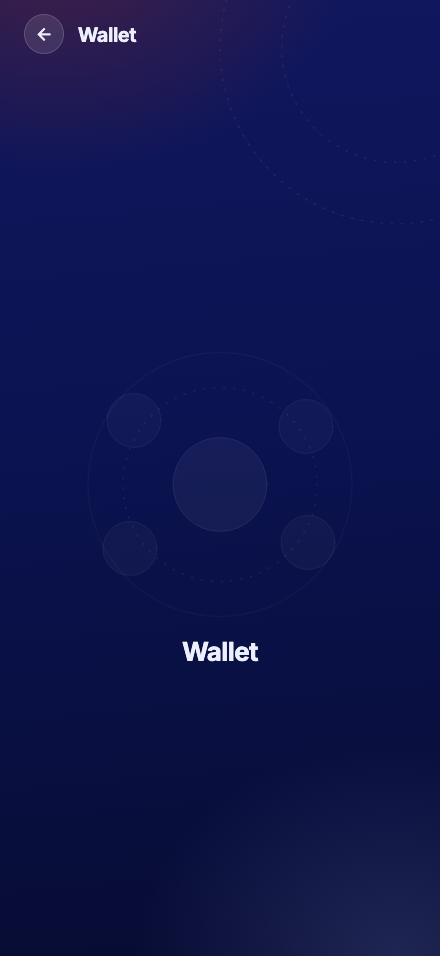
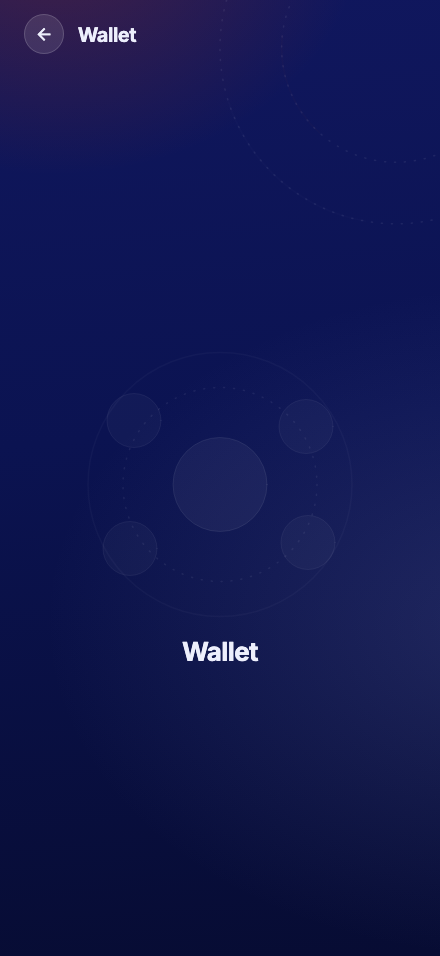
chore(midnight): wave-D residue — remaining captures, catalog entries and the wave-D workflow script
Claude-Session: https://claude.ai/code/session_01Bzdu9KvTBu3MBgE8mUkNHz

Changed region(s): [[0.7682, 0.9707, 1.0, 1.0]]

diff --git a/docs/redesign-midnight/workflows/m2-waveD-workflow.js b/docs/redesign-midnight/workflows/m2-waveD-workflow.js
@@ -1,0 +1,127 @@
+export const meta = {
+  name: 'midnight-m2-waveD',
+  description: 'M2 wave D — the last 6 rows: R22, R23, R5+W1-3, R6+R7, R8 + wave-C l10n merge + endMid kit fixup',
+  phases: [{ title: 'Screens', detail: '5 screen lanes (router owned by registration) + l10n merge + kit fixup' }],
+}
+
+const REPO = '/Users/oudaykhaled/Desktop/olivium/jeeb/jeeb-mobile'
+const TILES = '/Users/oudaykhaled/Downloads/Jeeb - Marketing-3/export-rich-ui/screens'
+
+const COMMON = `
+You are implementing ONE item of the Jeeb MIDNIGHT redesign (dark navy design language) in ${REPO}, branch feat/redesign-midnight (verify with \`git status -sb\`; NEVER run git commit/checkout/stash/branch — leave all changes in the working tree).
+GOLDEN RULE (user mandate): comments max 2 lines, only when super necessary.
+
+STEP 0 — MANDATORY before any code:
+1. Read your tile PNG(s) with the Read tool — the bottom caption band is the designer's spec note. Write 8+ concrete observations (whatISaw): background layers and glow placement, where orange appears (BUDGETED), ink hierarchy, glass surfaces, radii, spacing, Arabic runs, empty/loading/error treatment, copy literals.
+2. Read docs/redesign-midnight/03-MOTION-NOTES.md — YOUR tile's section is the motion authority. Add NOTHING it does not list, and ship every tile it marks zero-animation completely still.
+3. Read docs/redesign-midnight/01-TOKEN-SHEET.md + 02-STUDY-NOTES.md. ALL rulings bind you. Note especially the field anchors now available: JeebFieldGlowPlacement{topEnd, centerUpper, bottom, topStart} and JeebFieldWashPlacement{startMid, bottomEnd, topStart}. MEASURE your tile's bloom before choosing — the board is directional per tile, and a wash (periwinkle) is NOT a glow (orange). Several screens shipped mirrored because that distinction was missed.
+4. Confirm your files are reachable from lib/main.dart (docs/redesign-2026-08/screen-repo-map.md wins).
+
+CONSTRAINTS:
+- Tokens/kit only; ZERO raw hex, ZERO Colors.* (transparent ok). Do NOT modify lib/core/** — it is re-frozen; return the question instead.
+- ALL states restyled (default/loading/empty/error); empty family = JeebEmptyState (variants: e1, radar, street, parcel, pocket, balcony, beacon).
+- Preserve frozen test identifiers by re-homing; then delete identifier-only chrome.
+- Copy = tile literals. NEW l10n keys: do NOT edit lib/l10n/*.arb (a dedicated lane owns it) — write keys + EN/AR to docs/redesign-midnight/l10n-queue/<your-item>.md and use the nearest existing key with TODO(midnight): l10n-queued.
+- Missing wire data → designed slot + TODO(midnight): omitted, not faked.
+- RTL-safe; respect MediaQuery.disableAnimations. Screen tests advance with pump(duration), never pumpAndSettle on a looping surface; any harness mounting ShellScreen must set disableAnimations (there is now a guard test that will catch you).
+- Do NOT touch lib/core/router/app_router.dart unless you own it (stated below). Do NOT touch other lanes' feature dirs.
+
+**STANDING RULE — goldens are evidence, not gates.** Our comparator tolerates 5% pixel diff, so a token re-point on a small element passes a golden unchanged (an R18 ink swap moved 0.097% and three goldens stayed green carrying the wrong colour). Land a per-element assertion that reads the actual colour/geometry off the widget, and PROVE it discriminates by reverting the value and confirming red. Never cite a green golden as proof your change took.
+
+Analyze baseline: 0 errors / 30 known infos. Known-red and NOT yours: test/features/chat/chat_header_contrast_test.dart (5 pre-existing, Q-022).
+CONCURRENCY: an l10n lane owns lib/l10n and regenerates getters mid-wave. If analyze or a test reports an error inside lib/l10n or a missing AppLocalizations getter you did not introduce, re-run ONCE; report only if it reproduces.
+
+AFTER IMPLEMENTING — selfCritique: re-Read the tile, list 4+ px/hex-specific deltas, fix what you can, report the rest honestly.
+VERIFY: flutter analyze --no-pub <your dirs> → 0 errors · targeted tests (report before/after) · git diff --stat (primary file MUST be non-zero) · re-capture your screens: flutter test test/tools/catalog_capture_test.dart --update-goldens --plain-name "<filter>" --tags capture, then copy PNGs to docs/redesign-midnight/captures/<your-item>/.
+RETURN raw data: whatISaw · files+diffstat · changes per file · selfCritique deltas · test results · discrimination proof · l10n queued · TODOs · open questions.`
+
+const SCREENS = [
+  {
+    item: 'M2-19-r22', label: 'R22 settings',
+    prompt: `YOUR ITEM: M2-19 R22 Settings. Files: lib/features/settings/presentation/screens/settings_screen.dart (223 LOC) + its widgets. NOT live_settings_screen.dart — that is an M3 row (it delegates to this screen and is the sole live mount).
+Tile: ${TILES}/22-r22-settings.png. Carry-in: the MORE-band restructure (doc-13 P1). Standing CF rulings apply.
+MOTION: R22 is fully static — rows, switches and the MORE band all still.
+Note lib/features/settings/ has an M3 subtree (profile_edit, notification_prefs, language_settings, password_security, saved_locations, address_detail_form). Restyle ONLY the hub screen and widgets it owns directly; if you touch a shared widget, say which and why.`,
+  },
+  {
+    item: 'M2-20-r23', label: 'R23 become a jeeber',
+    prompt: `YOUR ITEM: M2-20 R23 Become a Jeeber (KYC wizard). Files: lib/features/kyc/presentation/kyc_wizard_screen.dart (384 LOC) + its widgets.
+Tile: ${TILES}/23-r23-become-a-jeeber.png. Carry-in: the ID-band relocation (doc-13 P1). **The encryption clause is under a LEGAL HOLD — do not reword, move or restyle away any encryption/consent copy; if the board's layout would displace it, keep the clause and report the conflict.**
+MOTION: R23 is fully static — the wizard stepper does NOT animate, the ID band and upload tiles are still.
+The KYC funnel (dm_onboarding, onboarding_funding, offer_kyc_gate, kyc_rejected, account_status) is M3 — do not restyle those here.`,
+  },
+  {
+    item: 'M2-21-r5-w123', label: 'R5+W1-3 onboarding',
+    prompt: `YOUR ITEM: M2-21 R5 Onboarding + W1/W2/W3 walkthrough slides. File: lib/features/onboarding/presentation/onboarding_screen.dart (1087 LOC) + its widgets.
+Tiles: ${TILES}/05-r5-onboarding.png, ${TILES}/24-w1-walkthrough-say-it.png, ${TILES}/25-w2-walkthrough-trusted-jeebers.png, ${TILES}/26-w3-walkthrough-live-tracking.png.
+
+**THIS IS THE MOTION LANE — 19 of the board's 76 in-scope animated elements are on your four tiles, more than every other M2 screen combined.** Read 03-MOTION-NOTES sections R5, W1, W2, W3 in full and wire EXACTLY what they list, with their exact delays. The delay ladders ARE the design — copying 4s/4.4s but dropping the 1.2s offset destroys the effect. Highlights, but read the notes yourself:
+- R5 and W1 are structurally identical (same art, shifted positions) — **ship ONE widget with two placements**, per the notes' own cheat-sheet.
+- Glass bubble pair: jFloat 4s and 4.4s with a **1.2s delay on the second** (that delay is what de-syncs them).
+- jWave goes on the waveform CONTAINER, never per bar — the bars are static children. This is a repeat offender; do not stagger them.
+- jHalo goes on a **ring sibling**, never on the disc it surrounds. The mic disc itself does NOT move.
+- W2: two orbit rings jArcPulse 3.2s with a **.6s offset between them** — that offset is the whole effect; a verified badge on jTwinkle 2.6s (jTwinkle on a UI badge, not a star); float chips 4s/4.4s at 1.3s; the orange chip BREATHES (2.8s) rather than floating.
+- W3: the **only route dash on any R/W tile** — jDash 2.6s linear. R3 draws the same path without it, so do not propagate. Courier halo 2.2s is the fastest halo on the board.
+Everything else on these tiles is STILL: mic discs, wordmark, the عربي language pill, bubble contents, headlines, CTAs, page dots.
+
+Carry-ins: slide art copy comes from the tile literals; there is an AR retranslation flag on this screen — check it and report.
+Because captures are rest-frame by design, your motion evidence must be per-element assertions (widget present, primitive type, duration, delay), not the PNGs.`,
+  },
+  {
+    item: 'M2-22-23-r6-r7', label: 'R6+R7 registration+OTP',
+    prompt: `YOUR ITEM: TWO checklist rows, one lane because they share a directory — M2-22 R6 Registration AND M2-23 R7 OTP verify. Files: lib/features/registration/presentation/registration_screen.dart (780 LOC) and lib/features/registration/presentation/otp_verification_screen.dart (539 LOC, mounted by R6's file).
+Tiles: ${TILES}/06-r6-registration.png and ${TILES}/07-r7-otp-verify.png.
+YOU OWN lib/core/router/app_router.dart THIS WAVE (no other lane may touch it) — auth routing is yours if the work genuinely needs it; if not, say so.
+
+⛔ **NEVER build L1 Log in or L2 Sign up** (tiles 34/35). The email/password funnel was REMOVED in JEBV4-199 (Q-044 RATIFIED). Auth is phone-OTP + social only. If any code path still reaches an email/password form, report it — do not restyle it.
+Carry-ins: R6 — fix the social-pill labels and the box-in-a-box field (doc-13 P1). R7 — the pass-1-added Verify pill is Pattern D chrome: DELETE it and re-home its frozen identifier onto a board-drawn element or a zero-size semantics node.
+MOTION: both tiles are fully static. R7 specifically — the 13 backdrop-filter OTP digit boxes are glass but STILL: no focus pulse, no caret blink. jBlink belongs to R2's transcript caret only.
+Report both rows' diffstats separately so each checklist row can be ticked on its own evidence.`,
+  },
+  {
+    item: 'M2-24-r8', label: 'R8 transcription',
+    prompt: `YOUR ITEM: M2-24 R8 Transcription review. Files: lib/features/transcription/presentation/transcription_screen.dart (285 LOC) + its widgets.
+Tile: ${TILES}/08-r8-transcription-review.png.
+Carry-ins: the low-confidence underline is Pattern-A (designed slot + TODO omitted-not-faked if the wire carries no confidence data — check before assuming). **REMOVE the injected waveform from the scrubber row** — the board draws none there.
+MOTION: R8 is fully static, including the scrubber row. 03-MOTION-NOTES says this explicitly reinforces the carry-in: the injected waveform must be removed, and it certainly must not animate.
+Note: JeebWaveform has a \`playbackBand\` profile (added in wave A for R12's playback summary). If your tile genuinely draws a playback band somewhere, use it; if it draws none, remove rather than re-point.`,
+  },
+]
+
+const L10N = `You are the l10n merge lane for MIDNIGHT wave D in ${REPO}, branch feat/redesign-midnight (NEVER run git mutations). GOLDEN RULE: comments max 2 lines, only when super necessary.
+YOU OWN lib/l10n/*.arb. Work:
+1. Process EXACTLY these six queue files and NO others: docs/redesign-midnight/l10n-queue/M2-13-r17.md, M2-14-r18.md, M2-15-r19.md, M2-16-r20.md, M2-17-r21-e4.md, M2-18-r4.md. (Five screen lanes are running concurrently and WILL create new files in that directory — those are wave-E work, not yours. NEVER glob the directory.) Apply the keys to app_en.arb + app_ar.arb following existing conventions; AR values as queued — flag any AR string that looks machine-weak rather than inventing better copy.
+2. This repo has NO \`flutter gen-l10n\` (no l10n.yaml, no generate: true) — the ARBs are pubspec assets parsed at runtime by the hand-authored lib/l10n/app_localizations.dart. Hand-add the getters into the existing numbered sections, as the last two merge lanes did.
+3. Swap every call site marked "TODO(midnight): l10n-queued" in the wave-C feature dirs: lib/features/{offers,active_delivery_jeeber,earnings,chat,deep_link_targets,order_history}. **NOT lib/features/wallet — the kit-fixup lane owns it this wave.** If a queue row points at wallet or at a wave-D dir (settings, kyc, onboarding, registration, transcription), apply the KEY but leave the call site and report it.
+4. If a queue file records that a feature-local l10n stopgap can now be deleted (the way otp_handover and live_tracking were closed out), verify every one of its keys landed with byte-identical values, then delete it. If any value differs, keep the stopgap and say why.
+5. Delete ONLY the six queue files you processed.
+STANDING RULINGS: value changes are in scope (change the value, keep the key id). For a key a row marks "replaced": after swapping, grep for remaining references — zero → delete from both ARBs; any left → KEEP and report where. Never leave a dangling reference. If a queue file names a test that pins a literal via find.text, YOU own that test file — update the finder in the same pass.
+VERIFY: flutter analyze --no-pub lib/l10n lib/features/{offers,active_delivery_jeeber,earnings,chat,deep_link_targets,order_history} → 0 errors · flutter test test/l10n plus the targeted suites for those dirs → green (chat_header_contrast_test's 5 reds are pre-existing, Q-022).
+RETURN: keys applied per file · keys deleted with grep evidence · call sites swapped · stopgaps closed · AR strings flagged · before/after test counts · questions.`
+
+const KIT_FIXUP = `You are the kit-fixup lane for MIDNIGHT wave D in ${REPO}, branch feat/redesign-midnight (NEVER run git mutations). GOLDEN RULE: comments max 2 lines, only when super necessary.
+YOU OWN: lib/core/widgets/jeeb/jeeb_midnight_field.dart + its test, lib/features/wallet/ + its tests, and lib/devtool/catalog/entries/batch_04_entries.dart.
+
+1. **Add \`JeebFieldWashPlacement.endMid\`** — sanctioned in 02-STUDY-NOTES "Glow-anchor wave outcomes". R4's periwinkle wash is currently rendered by \`bottomEnd\` (0.90, 1.0) but the board declares, and a pixel fit confirms at fy **0.6503 exact**, an end-side wash at mid-height — **335px too low as shipped**. Ratified anchor: \`endMid(1.17, 0.65, 0.21, 1.78, 0.714)\` (fx, fy, alpha, radiusFactor, aspect — confirm the tuple order against the enum's constructor before using it). Board declaration: \`radial-gradient(700px 560px at 110% 65%, rgba(119,127,192,.2))\` on a 440x956 canvas. APPEND the value so existing indices hold; \`bottomEnd\` keeps its value and its callers.
+2. **Adopt it on R4** — lib/features/wallet/presentation/wallet_hub_screen.dart. R4 draws TWO radials: the orange glow top-start (already adopted last wave, do not disturb it) and this periwinkle wash. A test already pins the current wash so the orange adoption could not drag it — update that pin to the new anchor rather than deleting it, and say which test.
+3. **Add a 1-delivery active-deliveries catalog state** to lib/devtool/catalog/entries/batch_04_entries.dart. The existing banner state seeds **2** deliveries, which trips \`_disclosureThreshold = 2\` and collapses to a disclosure row rendering **zero cards** — so the entire active-delivery card treatment (accent-tint fill, frame, vehicle disc, action pill) has no catalog coverage at all, on either the jeeber_home or the jeeber_active_deliveries entry. Add the state; do not change the threshold.
+
+**STANDING RULE — goldens are evidence, not gates** (5% tolerance; a 0.097% ink swap passed three goldens unchanged). Land per-element assertions and PROVE each discriminates by reverting the value and confirming red.
+VERIFY: flutter analyze --no-pub lib/core lib/features/wallet lib/devtool/catalog → 0 errors · flutter test test/core/widgets/jeeb test/core/theme test/features/wallet test/devtool → green, report before/after · re-capture wallet and the new catalog state (--tags capture --update-goldens), PNGs to docs/redesign-midnight/captures/M2-18-r4/.
+RETURN: exact signature added · what changed per file · before/after counts · discrimination proof · anything left.`
+
+phase('Screens')
+const results = await parallel([
+  ...SCREENS.map((s) => () => agent(
+    `${s.prompt}\n${COMMON}\nYour capture/report item id: ${s.item}.`,
+    { label: s.label, phase: 'Screens', model: 'opus' },
+  )),
+  () => agent(L10N, { label: 'l10n-merge', phase: 'Screens', model: 'opus' }),
+  () => agent(KIT_FIXUP, { label: 'kit:endMid+catalog', phase: 'Screens', model: 'opus' }),
+])
+
+return Object.fromEntries([
+  ...SCREENS.map((s, i) => [s.item, results[i]]),
+  ['l10n-merge', results[5]],
+  ['kit-fixup', results[6]],
+])

diff --git a/test/features/order_history/orders_stale_status_chip_test.dart b/test/features/order_history/orders_stale_status_chip_test.dart
@@ -154,7 +154,7 @@ void main() {
     await _pump(tester, repo: repo, pushSignals: push.stream);
 
     expect(find.text('Pending'), findsOneWidget);
-    expect(find.text('En route'), findsNothing);
+    expect(find.text('In transit'), findsNothing);
 
     // Time passing changes nothing — there is no cadence, by design.
     await tester.pump(const Duration(minutes: 5));
@@ -166,7 +166,7 @@ void main() {
 
   testWidgets(
       'POSITIVE — regaining shell-tab focus re-reads and the chip advances '
-      'Pending -> En route', (tester) async {
+      'Pending -> In transit', (tester) async {
     final repo = _AdvancingRepo(
       [OrderRequestStatus.pending, OrderRequestStatus.enRoute],
     );
@@ -182,7 +182,7 @@ void main() {
 
     expect(repo.reads, 2);
     expect(
-      find.text('En route'),
+      find.text('In transit'),
       findsOneWidget,
       reason: 'the chip must reflect where the jeeber actually is',
     );
@@ -226,7 +226,7 @@ void main() {
     host.setVisible(true);
     await tester.pumpAndSettle();
     expect(repo.reads, 2, reason: 'N hidden pushes cost ONE read, not N');
-    expect(find.text('En route'), findsOneWidget);
+    expect(find.text('In transit'), findsOneWidget);
   });
 
   testWidgets('the refetcher adds no second read at mount', (tester) async {

diff --git a/test/features/batch_b_additional_ac_tests.dart b/test/features/batch_b_additional_ac_tests.dart
@@ -58,12 +58,20 @@ void main() {
 
       await tester.pumpWidget(
         wrapForTest(
-          MultiBlocProvider(
-            providers: [
-              BlocProvider<OnboardingCubit>.value(value: cubit),
-              BlocProvider<LocaleCubit>.value(value: localeCubit),
-            ],
-            child: OnboardingScreen(onComplete: () => completed = true),
+          // Midnight motion loops ∞ by design, so `pumpAndSettle` can only
+          // terminate under reduce motion. Copy the ambient MediaQuery: a bare
+          // MediaQueryData is Size.zero, which collapses the docked sheet.
+          Builder(
+            builder: (context) => MediaQuery(
+              data: MediaQuery.of(context).copyWith(disableAnimations: true),
+              child: MultiBlocProvider(
+                providers: [
+                  BlocProvider<OnboardingCubit>.value(value: cubit),
+                  BlocProvider<LocaleCubit>.value(value: localeCubit),
+                ],
+                child: OnboardingScreen(onComplete: () => completed = true),
+              ),
+            ),
           ),
         ),
       );

diff --git a/test/features/active_delivery_jeeber/delivery_status_stepper_test.dart b/test/features/active_delivery_jeeber/delivery_status_stepper_test.dart
@@ -10,8 +10,8 @@ import '../../support/sync_app_localizations.dart';
 const _labels = <JeeberDeliveryStatus, String>{
   JeeberDeliveryStatus.ordered: 'Ordered',
   JeeberDeliveryStatus.picked: 'Picked',
-  JeeberDeliveryStatus.inTransit: 'In Transit',
-  JeeberDeliveryStatus.atDoor: 'At Door',
+  JeeberDeliveryStatus.inTransit: 'In transit',
+  JeeberDeliveryStatus.atDoor: 'At door',
   JeeberDeliveryStatus.done: 'Done',
 };
 
